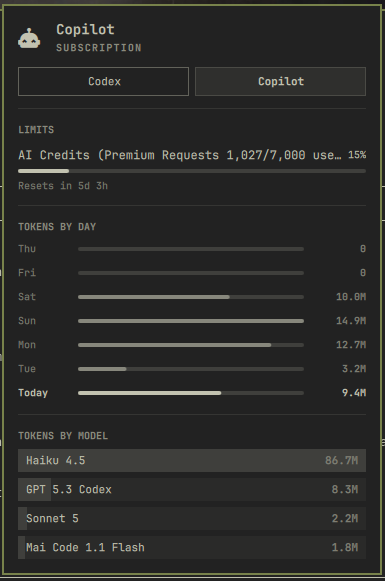
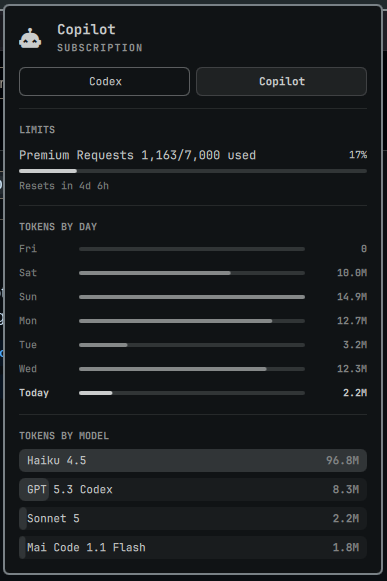
Fixed README.md

diff --git a/README.md b/README.md
@@ -24,7 +24,7 @@ omarchy plugin remove wellatleastitried.copilot-panel-usage
 
 ## Overview
 
->Note: This plugin was built from my PR that is open in [Omarchy](https://github.com/basecamp/omarchy/pull/7798). If this PR is merged, this plugin will no longer be supported.
+>Note: This plugin was built from [my PR](https://github.com/basecamp/omarchy/pull/7798) that is open in Omarchy. If this PR is merged, this plugin will no longer be supported.
 
 Shows token usage by model, active days, and current quota limits. Reads from Copilot CLI's local session store and fetches quota from GitHub's API (requires editor OAuth tokens).
 
